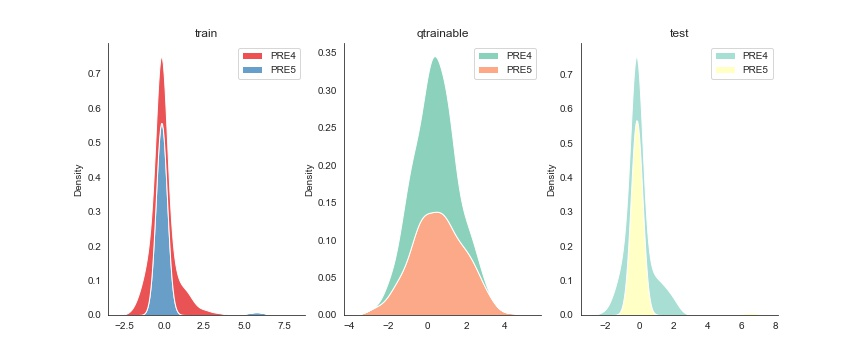
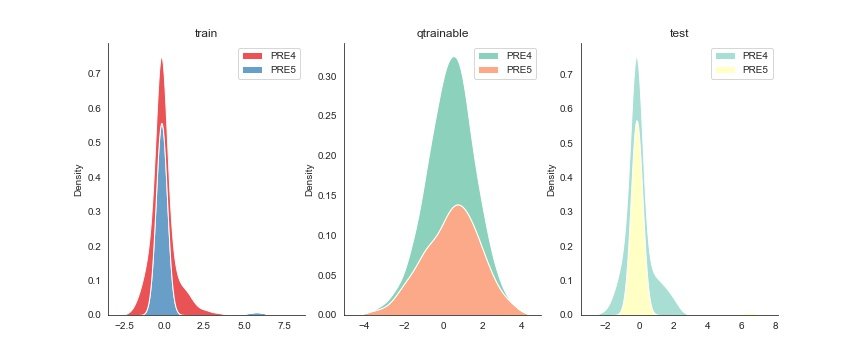
test(metrics): ks-test added for 2D, NICE visuals finalized, replicate across all implementations

diff --git a/beta-vae-normalizing-flows/thoracic-surgery/ks2d2s.py b/beta-vae-normalizing-flows/thoracic-surgery/ks2d2s.py
@@ -1,0 +1,154 @@
+from __future__ import division
+import numpy as np
+from numpy import random
+from scipy.spatial.distance import pdist, cdist
+from scipy.stats import kstwobign, pearsonr
+from scipy.stats import genextreme
+
+__all__ = ['ks2d2s', 'estat', 'estat2d']
+
+
+def ks2d2s(x1, y1, x2, y2, nboot=None, extra=False):
+    '''Two-dimensional Kolmogorov-Smirnov test on two samples. 
+    Parameters
+    ----------
+    x1, y1 : ndarray, shape (n1, )
+        Data of sample 1.
+    x2, y2 : ndarray, shape (n2, )
+        Data of sample 2. Size of two samples can be different.
+    extra: bool, optional
+        If True, KS statistic is also returned. Default is False.
+
+    Returns
+    -------
+    p : float
+        Two-tailed p-value.
+    D : float, optional
+        KS statistic. Returned if keyword `extra` is True.
+
+    Notes
+    -----
+    This is the two-sided K-S test. Small p-values means that the two samples are significantly different. Note that the p-value is only an approximation as the analytic distribution is unkonwn. The approximation is accurate enough when N > ~20 and p-value < ~0.20 or so. When p-value > 0.20, the value may not be accurate, but it certainly implies that the two samples are not significantly different. (cf. Press 2007)
+
+    References
+    ----------
+    Peacock, J.A. 1983, Two-Dimensional Goodness-of-Fit Testing in Astronomy, Monthly Notices of the Royal Astronomical Society, vol. 202, pp. 615-627
+    Fasano, G. and Franceschini, A. 1987, A Multidimensional Version of the Kolmogorov-Smirnov Test, Monthly Notices of the Royal Astronomical Society, vol. 225, pp. 155-170
+    Press, W.H. et al. 2007, Numerical Recipes, section 14.8
+
+    '''
+    assert (len(x1) == len(y1)) and (len(x2) == len(y2))
+    n1, n2 = len(x1), len(x2)
+    D = avgmaxdist(x1, y1, x2, y2)
+
+    if nboot is None:
+        sqen = np.sqrt(n1 * n2 / (n1 + n2))
+        r1 = pearsonr(x1, y1)[0]
+        r2 = pearsonr(x2, y2)[0]
+        r = np.sqrt(1 - 0.5 * (r1**2 + r2**2))
+        d = D * sqen / (1 + r * (0.25 - 0.75 / sqen))
+        p = kstwobign.sf(d)
+    else:
+        n = n1 + n2
+        x = np.concatenate([x1, x2])
+        y = np.concatenate([y1, y2])
+        d = np.empty(nboot, 'f')
+        for i in range(nboot):
+            idx = random.choice(n, n, replace=True)
+            ix1, ix2 = idx[:n1], idx[n1:]
+            #ix1 = random.choice(n, n1, replace=True)
+            #ix2 = random.choice(n, n2, replace=True)
+            d[i] = avgmaxdist(x[ix1], y[ix1], x[ix2], y[ix2])
+        p = np.sum(d > D).astype('f') / nboot
+    if extra:
+        return p, D
+    else:
+        return p
+
+
+def avgmaxdist(x1, y1, x2, y2):
+    D1 = maxdist(x1, y1, x2, y2)
+    D2 = maxdist(x2, y2, x1, y1)
+    return (D1 + D2) / 2
+
+
+def maxdist(x1, y1, x2, y2):
+    n1 = len(x1)
+    D1 = np.empty((n1, 4))
+    for i in range(n1):
+        a1, b1, c1, d1 = quadct(x1[i], y1[i], x1, y1)
+        a2, b2, c2, d2 = quadct(x1[i], y1[i], x2, y2)
+        D1[i] = [a1 - a2, b1 - b2, c1 - c2, d1 - d2]
+
+    # re-assign the point to maximize difference,
+    # the discrepancy is significant for N < ~50
+    D1[:, 0] -= 1 / n1
+
+    dmin, dmax = -D1.min(), D1.max() + 1 / n1
+    return max(dmin, dmax)
+
+
+def quadct(x, y, xx, yy):
+    n = len(xx)
+    ix1, ix2 = xx <= x, yy <= y
+    a = np.sum(ix1 & ix2) / n
+    b = np.sum(ix1 & ~ix2) / n
+    c = np.sum(~ix1 & ix2) / n
+    d = 1 - a - b - c
+    return a, b, c, d
+
+
+def estat2d(x1, y1, x2, y2, **kwds):
+    return estat(np.c_[x1, y1], np.c_[x2, y2], **kwds)
+
+
+def estat(x, y, nboot=1000, replace=False, method='log', fitting=False):
+    '''
+    Energy distance statistics test.
+    Reference
+    ---------
+    Aslan, B, Zech, G (2005) Statistical energy as a tool for binning-free
+      multivariate goodness-of-fit tests, two-sample comparison and unfolding.
+      Nuc Instr and Meth in Phys Res A 537: 626-636
+    Szekely, G, Rizzo, M (2014) Energy statistics: A class of statistics
+      based on distances. J Stat Planning & Infer 143: 1249-1272
+    Brian Lau, multdist, https://github.com/brian-lau/multdist
+
+    '''
+    n, N = len(x), len(x) + len(y)
+    stack = np.vstack([x, y])
+    stack = (stack - stack.mean(0)) / stack.std(0)
+    if replace:
+        rand = lambda x: random.randint(x, size=x)
+    else:
+        rand = random.permutation
+
+    en = energy(stack[:n], stack[n:], method)
+    en_boot = np.zeros(nboot, 'f')
+    for i in range(nboot):
+        idx = rand(N)
+        en_boot[i] = energy(stack[idx[:n]], stack[idx[n:]], method)
+
+    if fitting:
+        param = genextreme.fit(en_boot)
+        p = genextreme.sf(en, *param)
+        return p, en, param
+    else:
+        p = (en_boot >= en).sum() / nboot
+        return p, en, en_boot
+
+
+def energy(x, y, method='log'):
+    dx, dy, dxy = pdist(x), pdist(y), cdist(x, y)
+    n, m = len(x), len(y)
+    if method == 'log':
+        dx, dy, dxy = np.log(dx), np.log(dy), np.log(dxy)
+    elif method == 'gaussian':
+        raise NotImplementedError
+    elif method == 'linear':
+        pass
+    else:
+        raise ValueError
+    z = dxy.sum() / (n * m) - dx.sum() / n**2 - dy.sum() / m**2
+    # z = ((n*m)/(n+m)) * z # ref. SR
+    return z
